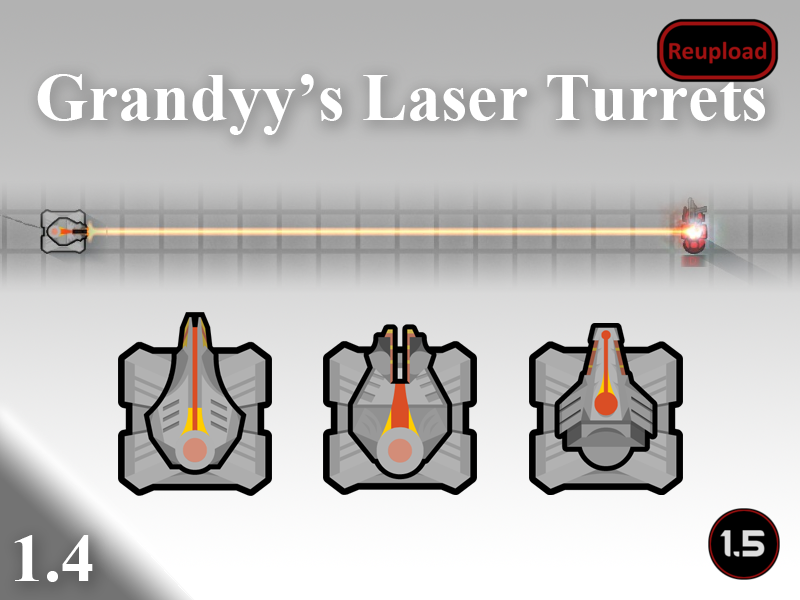
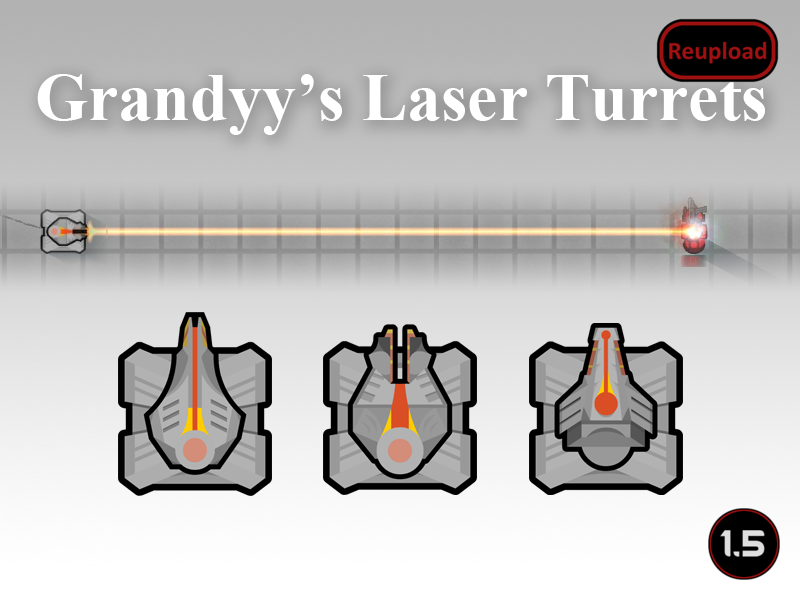
Removed old version from the preview

Changed region(s): [[0.0, 0.72, 0.25, 1.0]]

diff --git a/README.md b/README.md
@@ -1,4 +1,4 @@
-# [Grandyy's Laser Turrets (Continued)]()
+# [Grandyy's Laser Turrets (Continued)](https://steamcommunity.com/sharedfiles/filedetails/?id=3371303001)
 
 ![Image](https://i.imgur.com/buuPQel.png)
 
@@ -26,4 +26,6 @@ I programmed by selectively copying vanilla codes. I only take the laser effect 
 
  
 
-[![Image](https://img.shields.io/github/v/release/emipa606/GrandyysLaserTurrets?label=latest%20version&style=plastic&color=9f1111&labelColor=black)](https://steamcommunity.com/sharedfiles/filedetails/changelog/) | tags: laser,  turrets
+[![Image](https://img.shields.io/github/v/release/emipa606/GrandyysLaserTurrets?label=latest%20version&style=plastic&color=9f1111&labelColor=black)](https://steamcommunity.com/sharedfiles/filedetails/changelog/) | tags: laser,  turrets 
+
+[![Image](https://img.shields.io/github/v/release/emipa606/GrandyysLaserTurrets?label=latest%20version&style=plastic&color=9f1111&labelColor=black)](https://steamcommunity.com/sharedfiles/filedetails/changelog/3371303001) | tags: laser,  turrets
